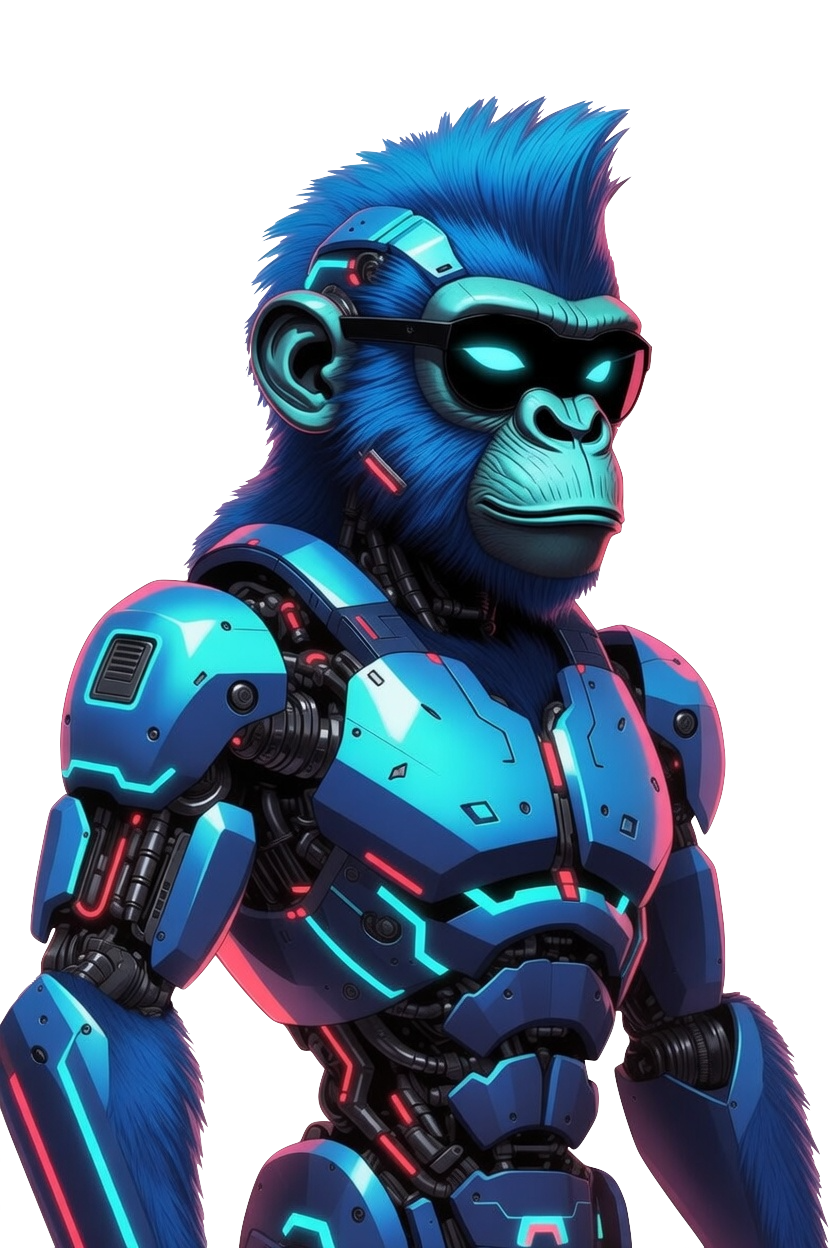
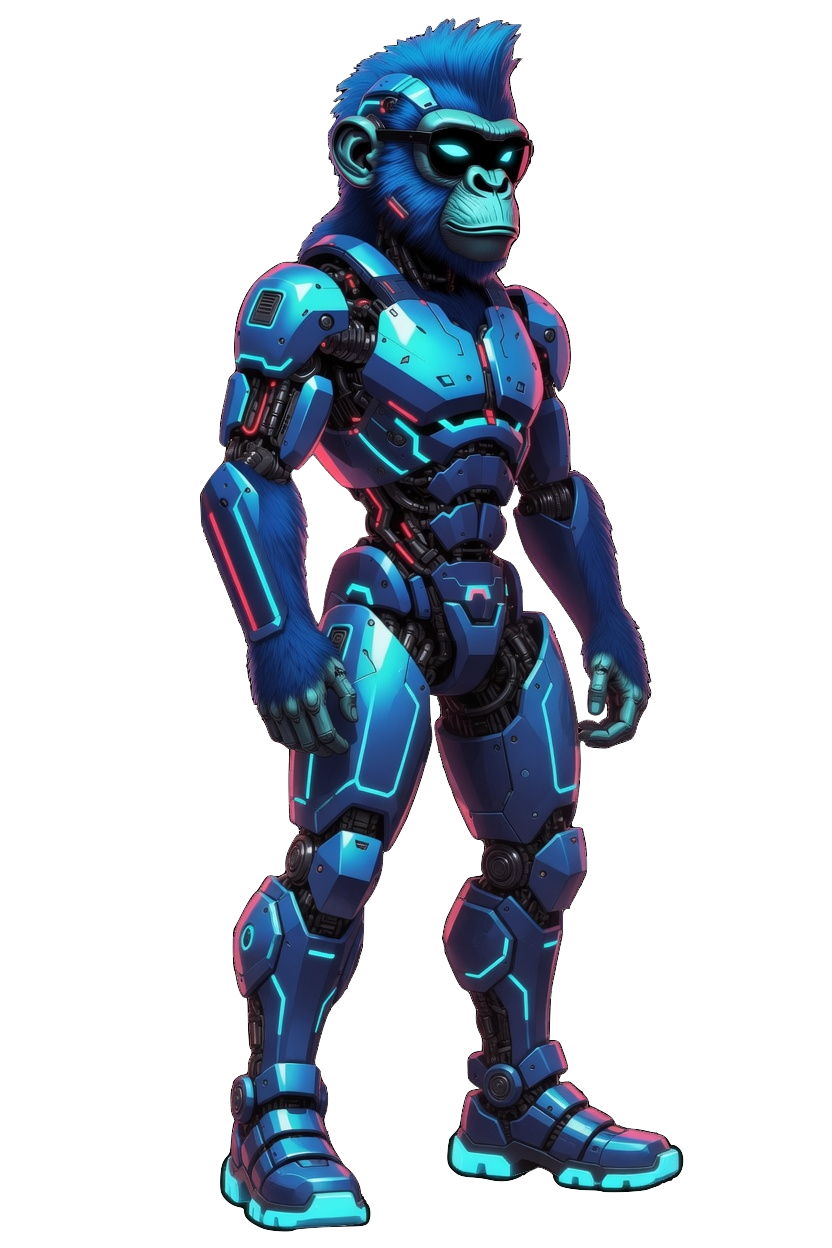
Trying out new pic

diff --git a/app/page.tsx b/app/page.tsx
@@ -83,14 +83,14 @@ export default function Home() {
         <img
           src="/collectibles/monkey-left.png"
           alt=""
-          className="pointer-events-none absolute left-0 top-[11%] md:top-[30%] -translate-y-1/2 z-10 w-[40vw] max-w-[220px] opacity-70 md:w-[28vw] md:max-w-[420px] md:opacity-90"
+          className="pointer-events-none absolute left-0 top-[12%] md:top-[30%] -translate-y-1/2 z-10 w-[40vw] max-w-[220px] opacity-70 md:w-[28vw] md:max-w-[420px] md:opacity-90"
         />
 
         {/* Right Monkey (mirrored) */}
         <img
           src="/collectibles/monkey-right.png"
           alt=""
-          className="pointer-events-none absolute right-0 top-[11%] md:top-[30%] -translate-y-1/2 z-10 w-[40vw] max-w-[220px] scale-x-[-1] opacity-70 md:w-[28vw] md:max-w-[420px] md:opacity-90"
+          className="pointer-events-none absolute right-0 top-[12%] md:top-[30%] -translate-y-1/2 z-10 w-[40vw] max-w-[220px] scale-x-[-1] opacity-70 md:w-[28vw] md:max-w-[420px] md:opacity-90"
         />
 
         <nav className="relative z-20 mx-auto flex max-w-7xl items-center justify-between px-6 py-6">